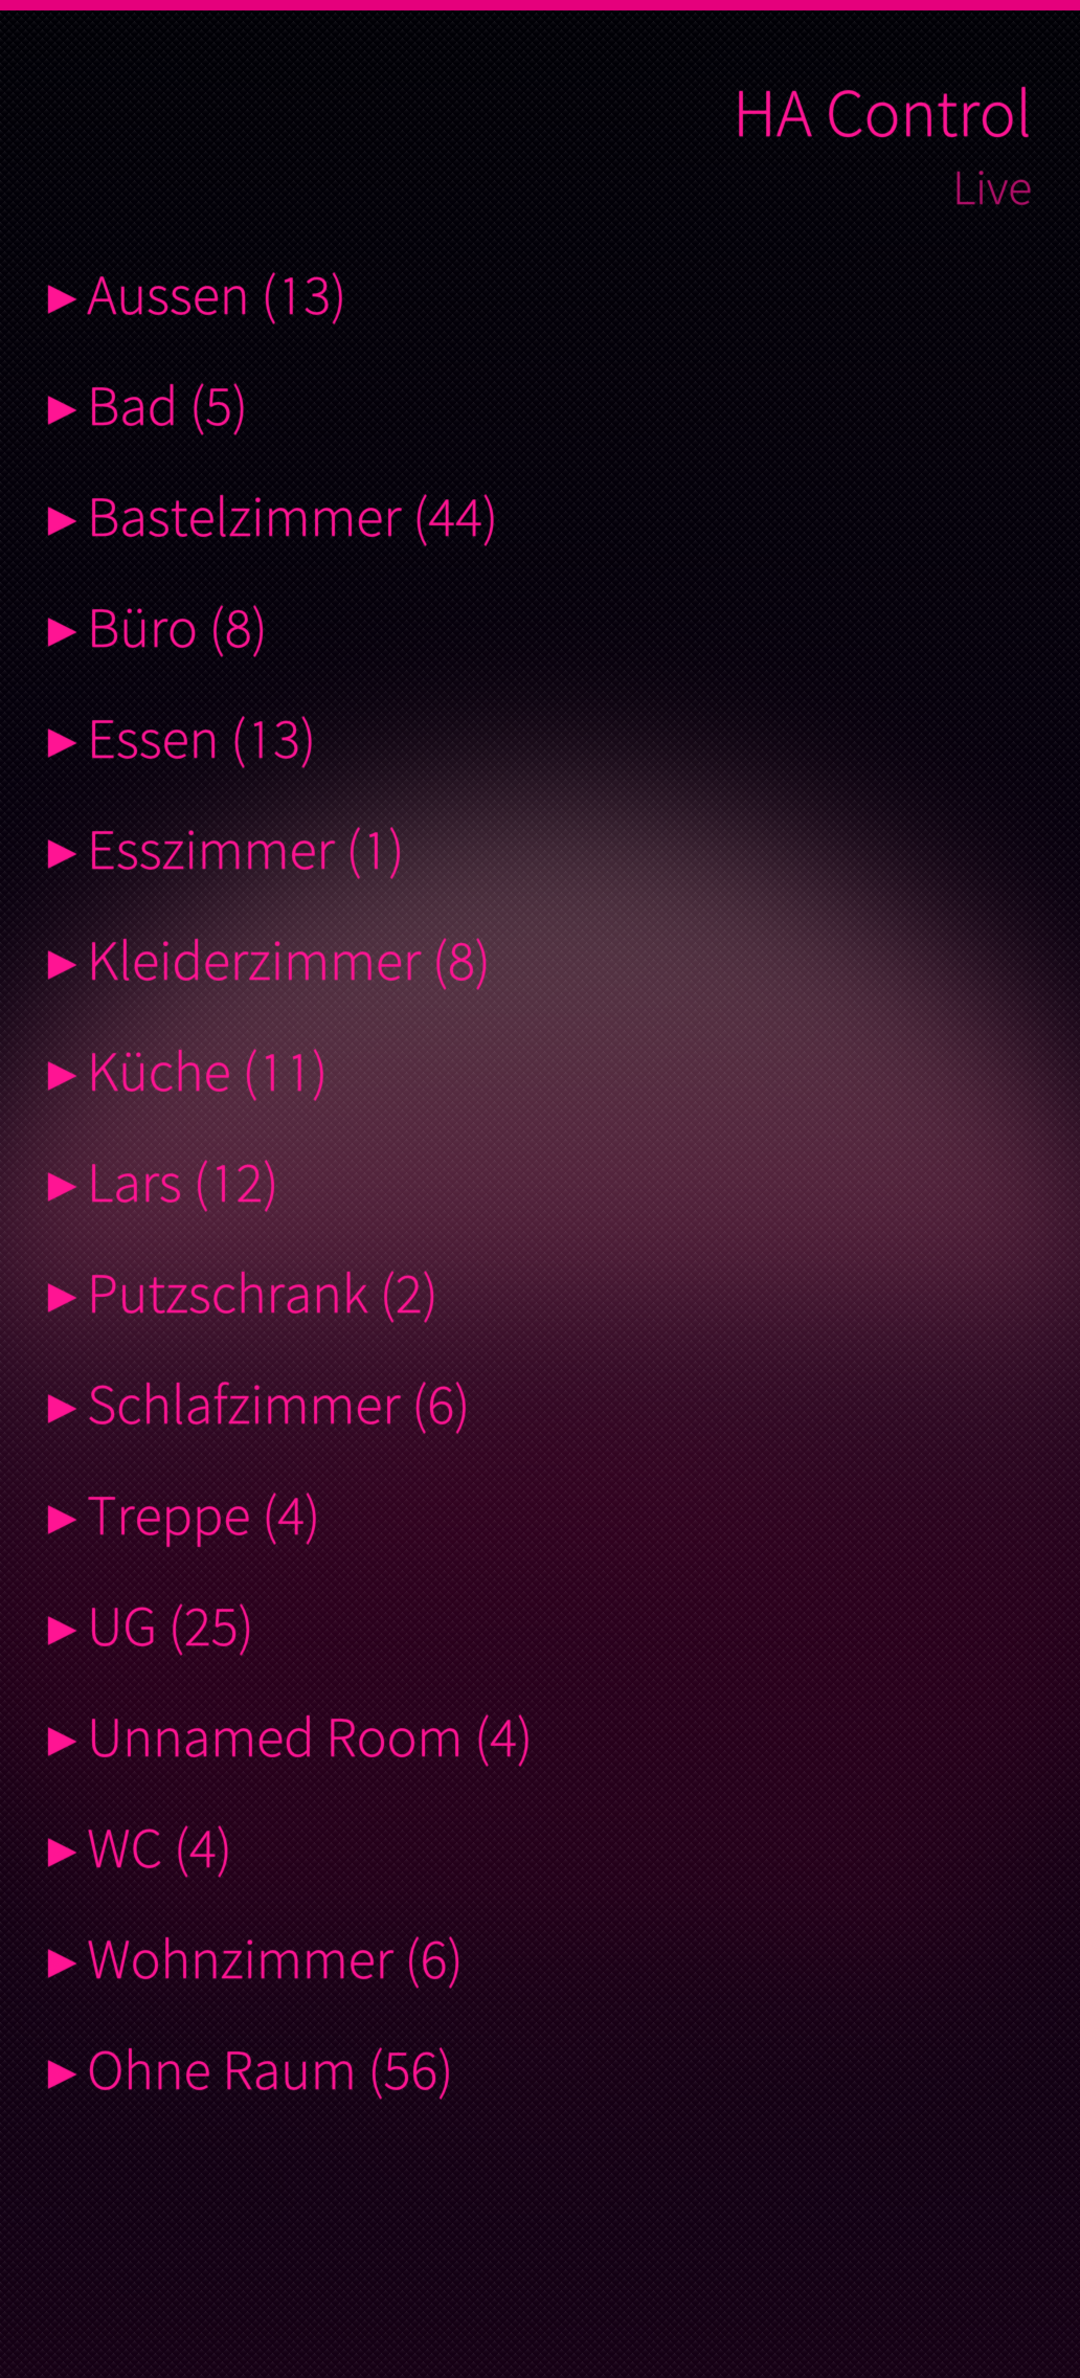
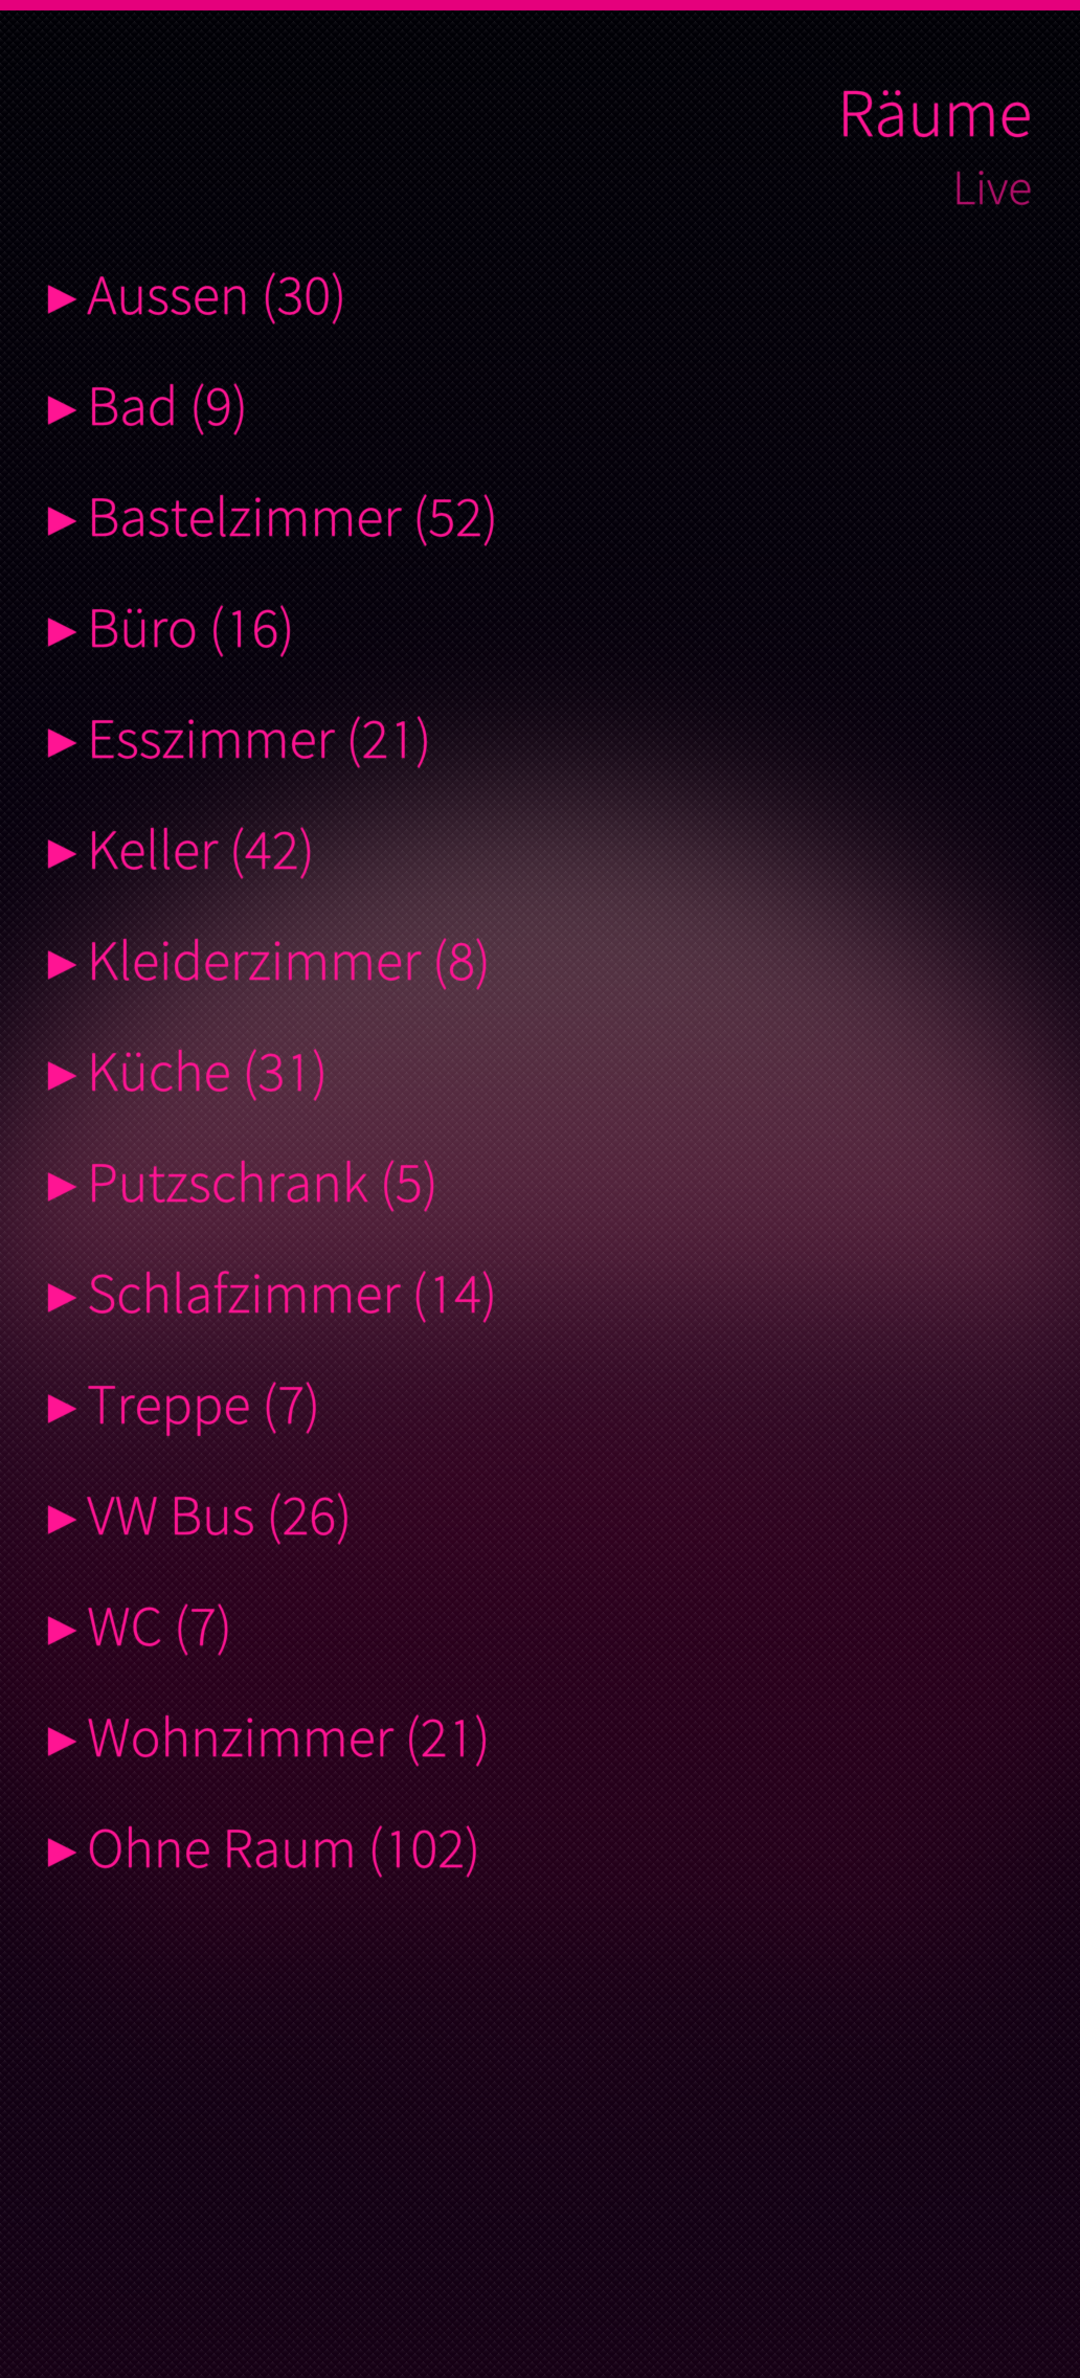
Refresh Jolla Store listing assets for v0.50
Screenshots, descriptions and summaries were still from v0.7 and
didn't mention anything added since (climate/media_player/scene,
updates overview, mobile_app push + device status, room-grouped
sensor view). Four new screenshots replace the old three: room list
collapsed and expanded (showing the color swatch), the new room-
grouped sensor overview, and the Settings page's device-registration
section. Descriptions rewritten to cover the current feature set.

Claude-Session: https://claude.ai/code/session_01GaLjKMrUG1WLVyqU1kSFJQ

diff --git a/store/README.md b/store/README.md
@@ -8,10 +8,10 @@ Field-by-field, matching the actual submission form:
 `HA Control` (10 characters -- well under the 30-char limit, no truncation risk).
 
 ## Details -> Description
-`description-en.txt` / `description-de.txt` (1209 / 1294 characters, well under the 4000-char limit). Deliberately doesn't repeat the app name (already the Title field) or the GitHub link (already the Open source project URL field) -- pure body text only, no duplication of what the form already captures elsewhere. Add German as a second language via "+ Add a language" in the form if a German listing is wanted alongside English.
+`description-en.txt` / `description-de.txt` (2013 / 2233 characters, well under the 4000-char limit, updated for v0.50's full feature set). Deliberately doesn't repeat the app name (already the Title field) or the GitHub link (already the Open source project URL field) -- pure body text only, no duplication of what the form already captures elsewhere. Add German as a second language via "+ Add a language" in the form if a German listing is wanted alongside English.
 
 ## Details -> Summary
-`summary-en.txt` / `summary-de.txt` (125 / 134 characters, under the 200-char limit).
+`summary-en.txt` / `summary-de.txt` (139 / 142 characters, under the 200-char limit).
 
 ## Details -> Recent changes
 Not prepared -- this is meant for update announcements, and this would be the first submission. See `KONZEPT.md`'s dated update log for the full history if release notes are wanted later.
@@ -20,7 +20,7 @@ Not prepared -- this is meant for update announcements, and this would be the fi
 Not prepared -- the form's dropdown options weren't available to check against, so pick whatever fits best there directly (e.g. Utilities/Tools/Smart Home, depending on what's actually offered).
 
 ## Binaries
-`../RPMS/harbour-hacontrol-0.7-1.aarch64.rpm` -- covers current 64-bit phones, the only architecture actually verified on real hardware. `armv7hl` also builds and passes Harbour validation but has never been tested on real armv7hl hardware (see README.md's Known limitations) -- upload it too only if multi-arch is wanted despite that.
+`../RPMS/harbour-hacontrol-0.50-1.aarch64.rpm` -- covers current 64-bit phones, verified on real hardware (including the v0.50 mobile_app push/device-status feature). `i486` is emulator-only, not for submission. `armv7hl` also builds and passes Harbour validation but has never been tested on real armv7hl hardware (see README.md's Known limitations) -- upload it too only if multi-arch is wanted despite that.
 
 ## Compatibility -> Device type
 Phone (not Tablet -- never tested on a tablet form factor).
@@ -29,9 +29,16 @@ Phone (not Tablet -- never tested on a tablet form factor).
 `icon-172x172.png` (copy of `../icons/172x172/harbour-hacontrol.png`, matches the form's 172x172px requirement exactly).
 
 ## Visual assets -> Screenshots
-`screenshots/01-rooms.png`, `02-sensors.png`, `03-light-detail.png` -- three PNGs, 1080x2378px. Taken as real screenshots on the real device (1032x2272 native) and upscaled ~4.7% to clear the form's "at least 1080px wide" requirement, since the phone's native width falls just short of 1080. Show the room list (collapsed), the cross-room sensor overview, and the light detail controls (brightness/color-temperature sliders + color picker button) in that order.
+Four PNGs, refreshed for v0.50 (previous three, including the v0.7-era light detail shot, were replaced):
 
-These show the maintainer's real Home Assistant instance (real room and device/person names, e.g. "Lars", "Licht Gabi") -- confirmed acceptable to publish as-is rather than staging anonymized/demo data.
+- `screenshots/01-rooms.png` -- room list, all collapsed. 1080x2378px, real device (Jolla Phone, aarch64), native 1032x2272 upscaled ~4.7% to clear the form's "at least 1080px wide" requirement (the phone's native width falls just short of 1080).
+- `screenshots/02-rooms-expanded.png` -- Schlafzimmer expanded, showing toggle switches, the fan/switch rows, and the color swatch next to two on lights ("Licht Gabi"/"Licht Sili"). Same real device, same upscale.
+- `screenshots/03-sensors-by-room.png` -- the sensor overview's new (v0.50) room-grouping, Keller expanded showing mixed sensor types (temperature, energy, power, humidity, pressure) together. Taken on the SDK emulator (720x1600 native, via `org.nemomobile.lipstick`'s `saveScreenshot` D-Bus method for a true native-resolution capture rather than a cropped window grab) and upscaled ~50% to 1080x2400 -- real-device capture wasn't usable for this specific state (see note below).
+- `screenshots/04-settings.png` -- the Settings page's new "Home-Assistant-Geräteregistrierung" section (device name field + re-register button), the visible surface of the v0.50 mobile_app push/device-status feature. Same emulator method as 03.
+
+Reaching specific in-app states (an expanded room, the Settings page) for a screenshot needs either touch input or a brief, reverted debug tweak to the QML (e.g. a `Component.onCompleted` jump or a delayed `Timer` triggering the state) since there's no scripted UI-automation harness for this app. On the real device this hit Lipstick's ANR ("application not responding") watchdog when combined with the device's chronically high background load from Android App Support (~14 load average from resident Android app processes) -- not a bug in the app itself (the process was idle/sleeping, not spinning), but real enough that it made repeated real-device state changes unreliable this session. The emulator has no such load and was used instead for shots 03/04; shots 01/02 (the app's actual startup state, no debug tweak needed) came from the real device without issue.
+
+These show the maintainer's real Home Assistant instance (real room and device/person names, e.g. "Lars", "Licht Gabi") -- confirmed acceptable to publish as-is rather than staging anonymized/demo data in earlier rounds; unchanged policy, not re-confirmed for this specific v0.50 batch.
 
 ## Visual assets -> Cover image
 Not prepared (optional field, 1080x540px). Could be generated in the same visual style as the app icon (navy-to-HA-blue gradient) if wanted later.
@@ -43,7 +50,7 @@ Not filled in here -- this goes to Jolla directly tied to the submitter's accoun
 `https://github.com/silly82/sailhacontrol`
 
 ## Publish settings -> Message to QA
-Nothing unusual to flag -- the app needs a reachable local Home Assistant instance with a Long-Lived Access Token to actually show data (see README.md's Setup section); without one it just shows the "not configured yet" hint, which is expected and not a bug.
+Nothing unusual to flag -- the app needs a reachable local Home Assistant instance with a Long-Lived Access Token to actually show data (see README.md's Setup section); without one it just shows the "not configured yet" hint, which is expected and not a bug. As of v0.50, a configured instance also gets a `mobile_app` device registration (visible in HA under Settings -> Devices & Services) and three extra sensor entities reporting the phone's battery/connection status back -- this is intentional (see README.md's feature list), not a leak or unexpected network call.
 
 ## Still needed for an actual submission (out of scope here)
 
